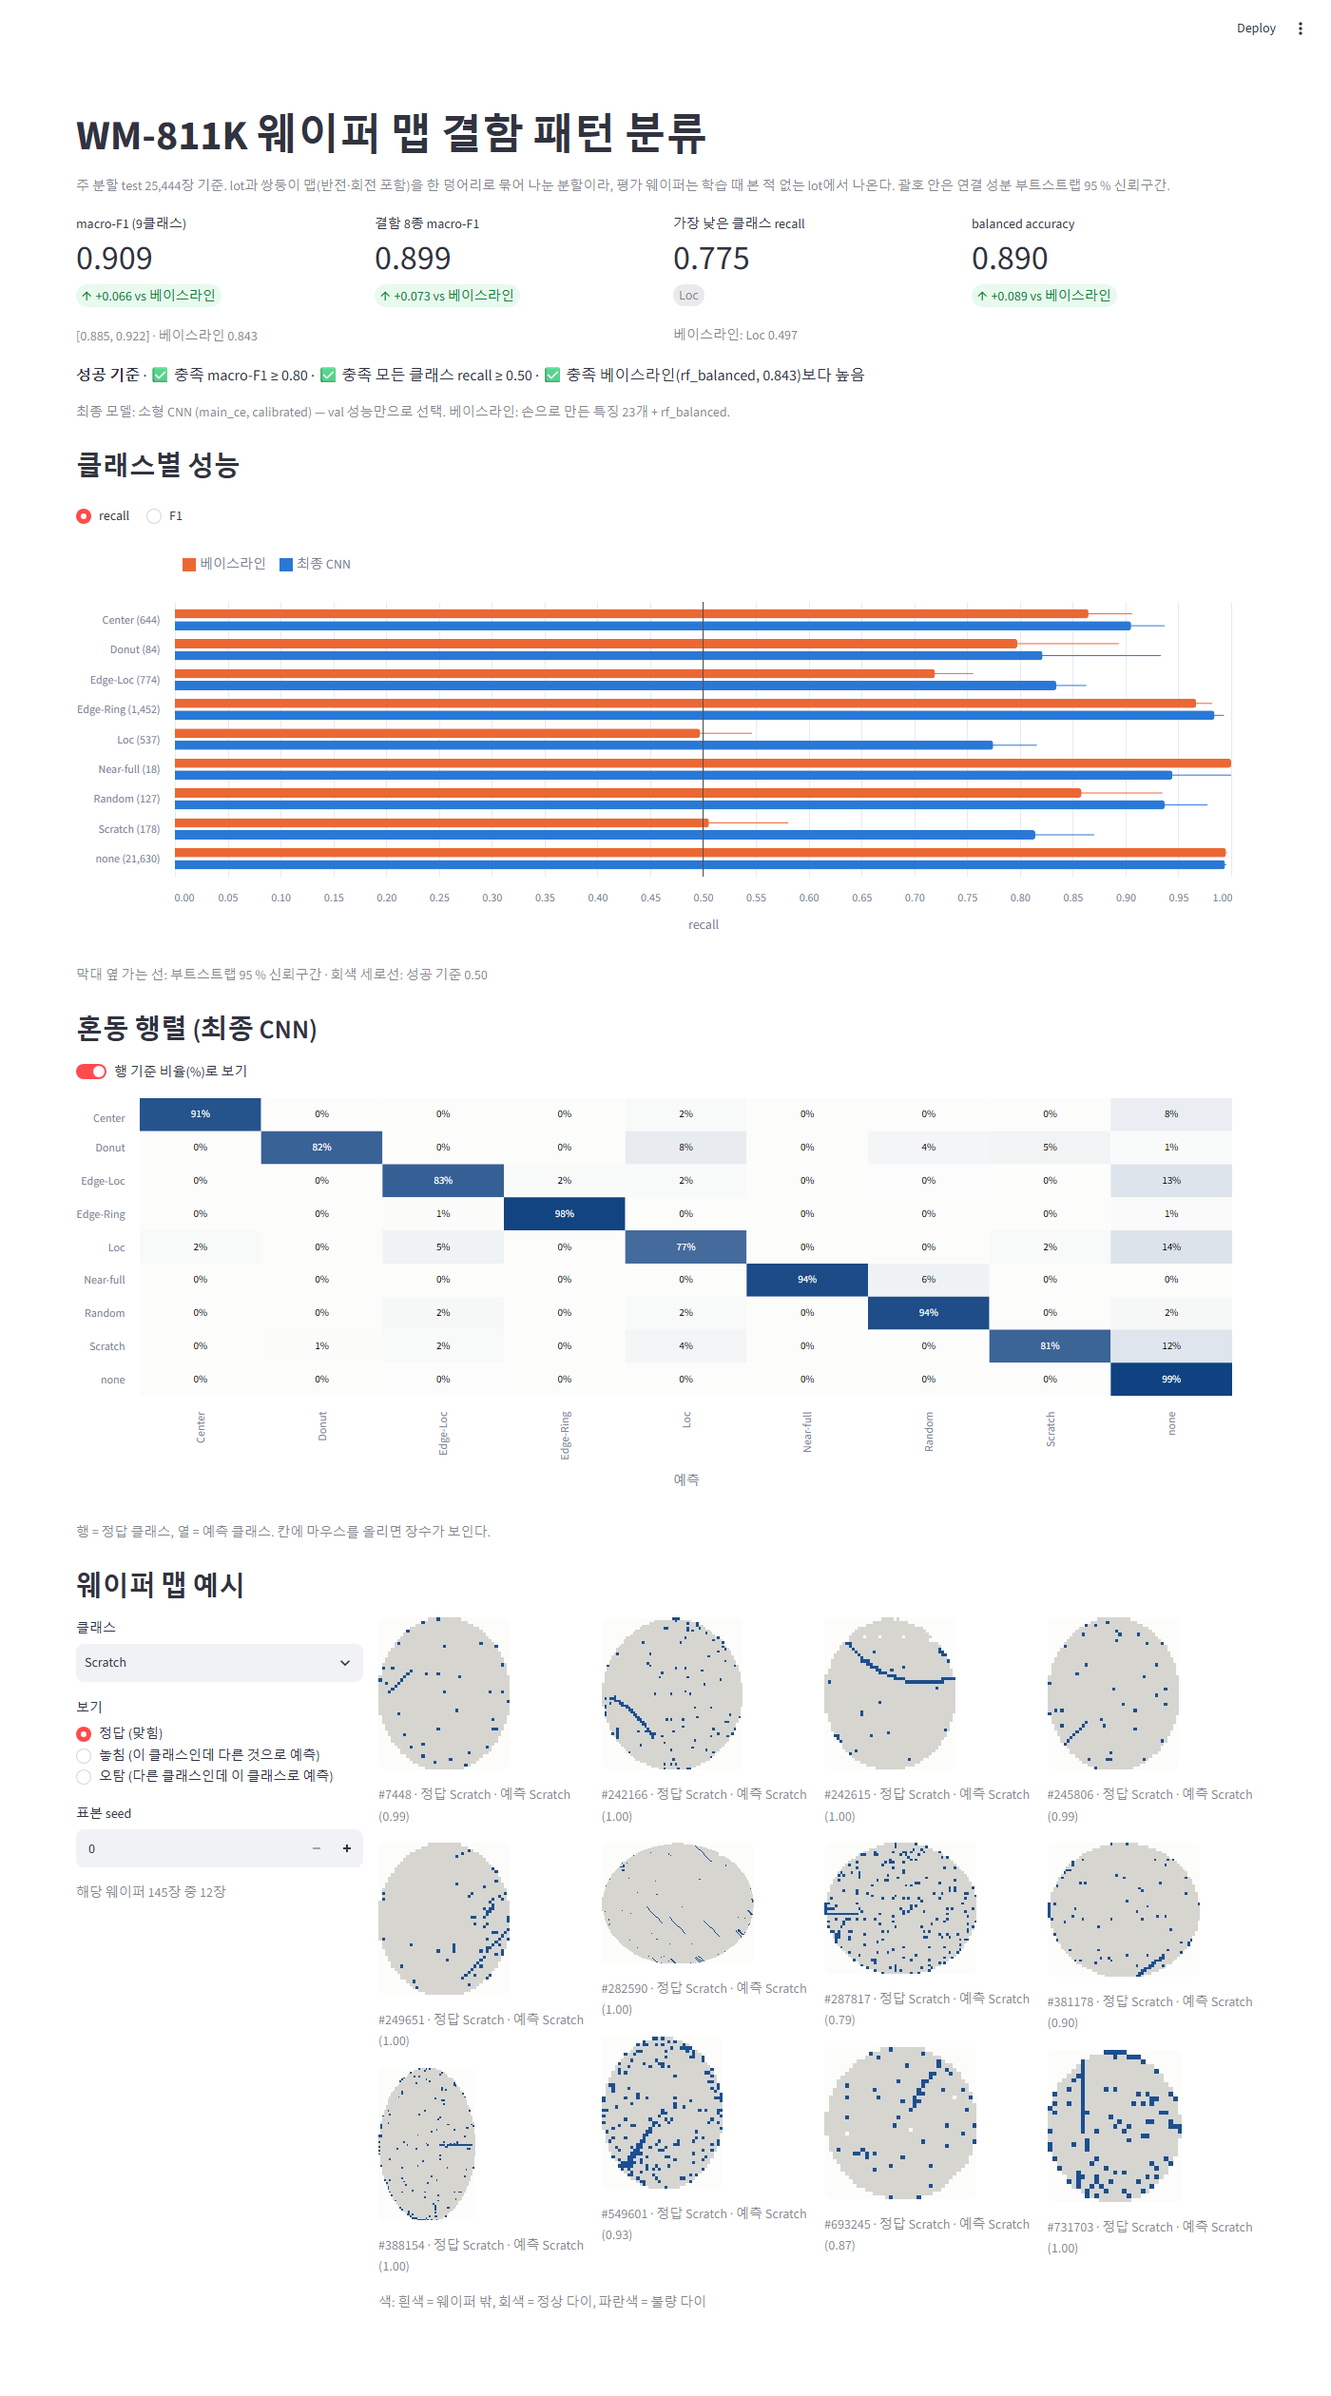
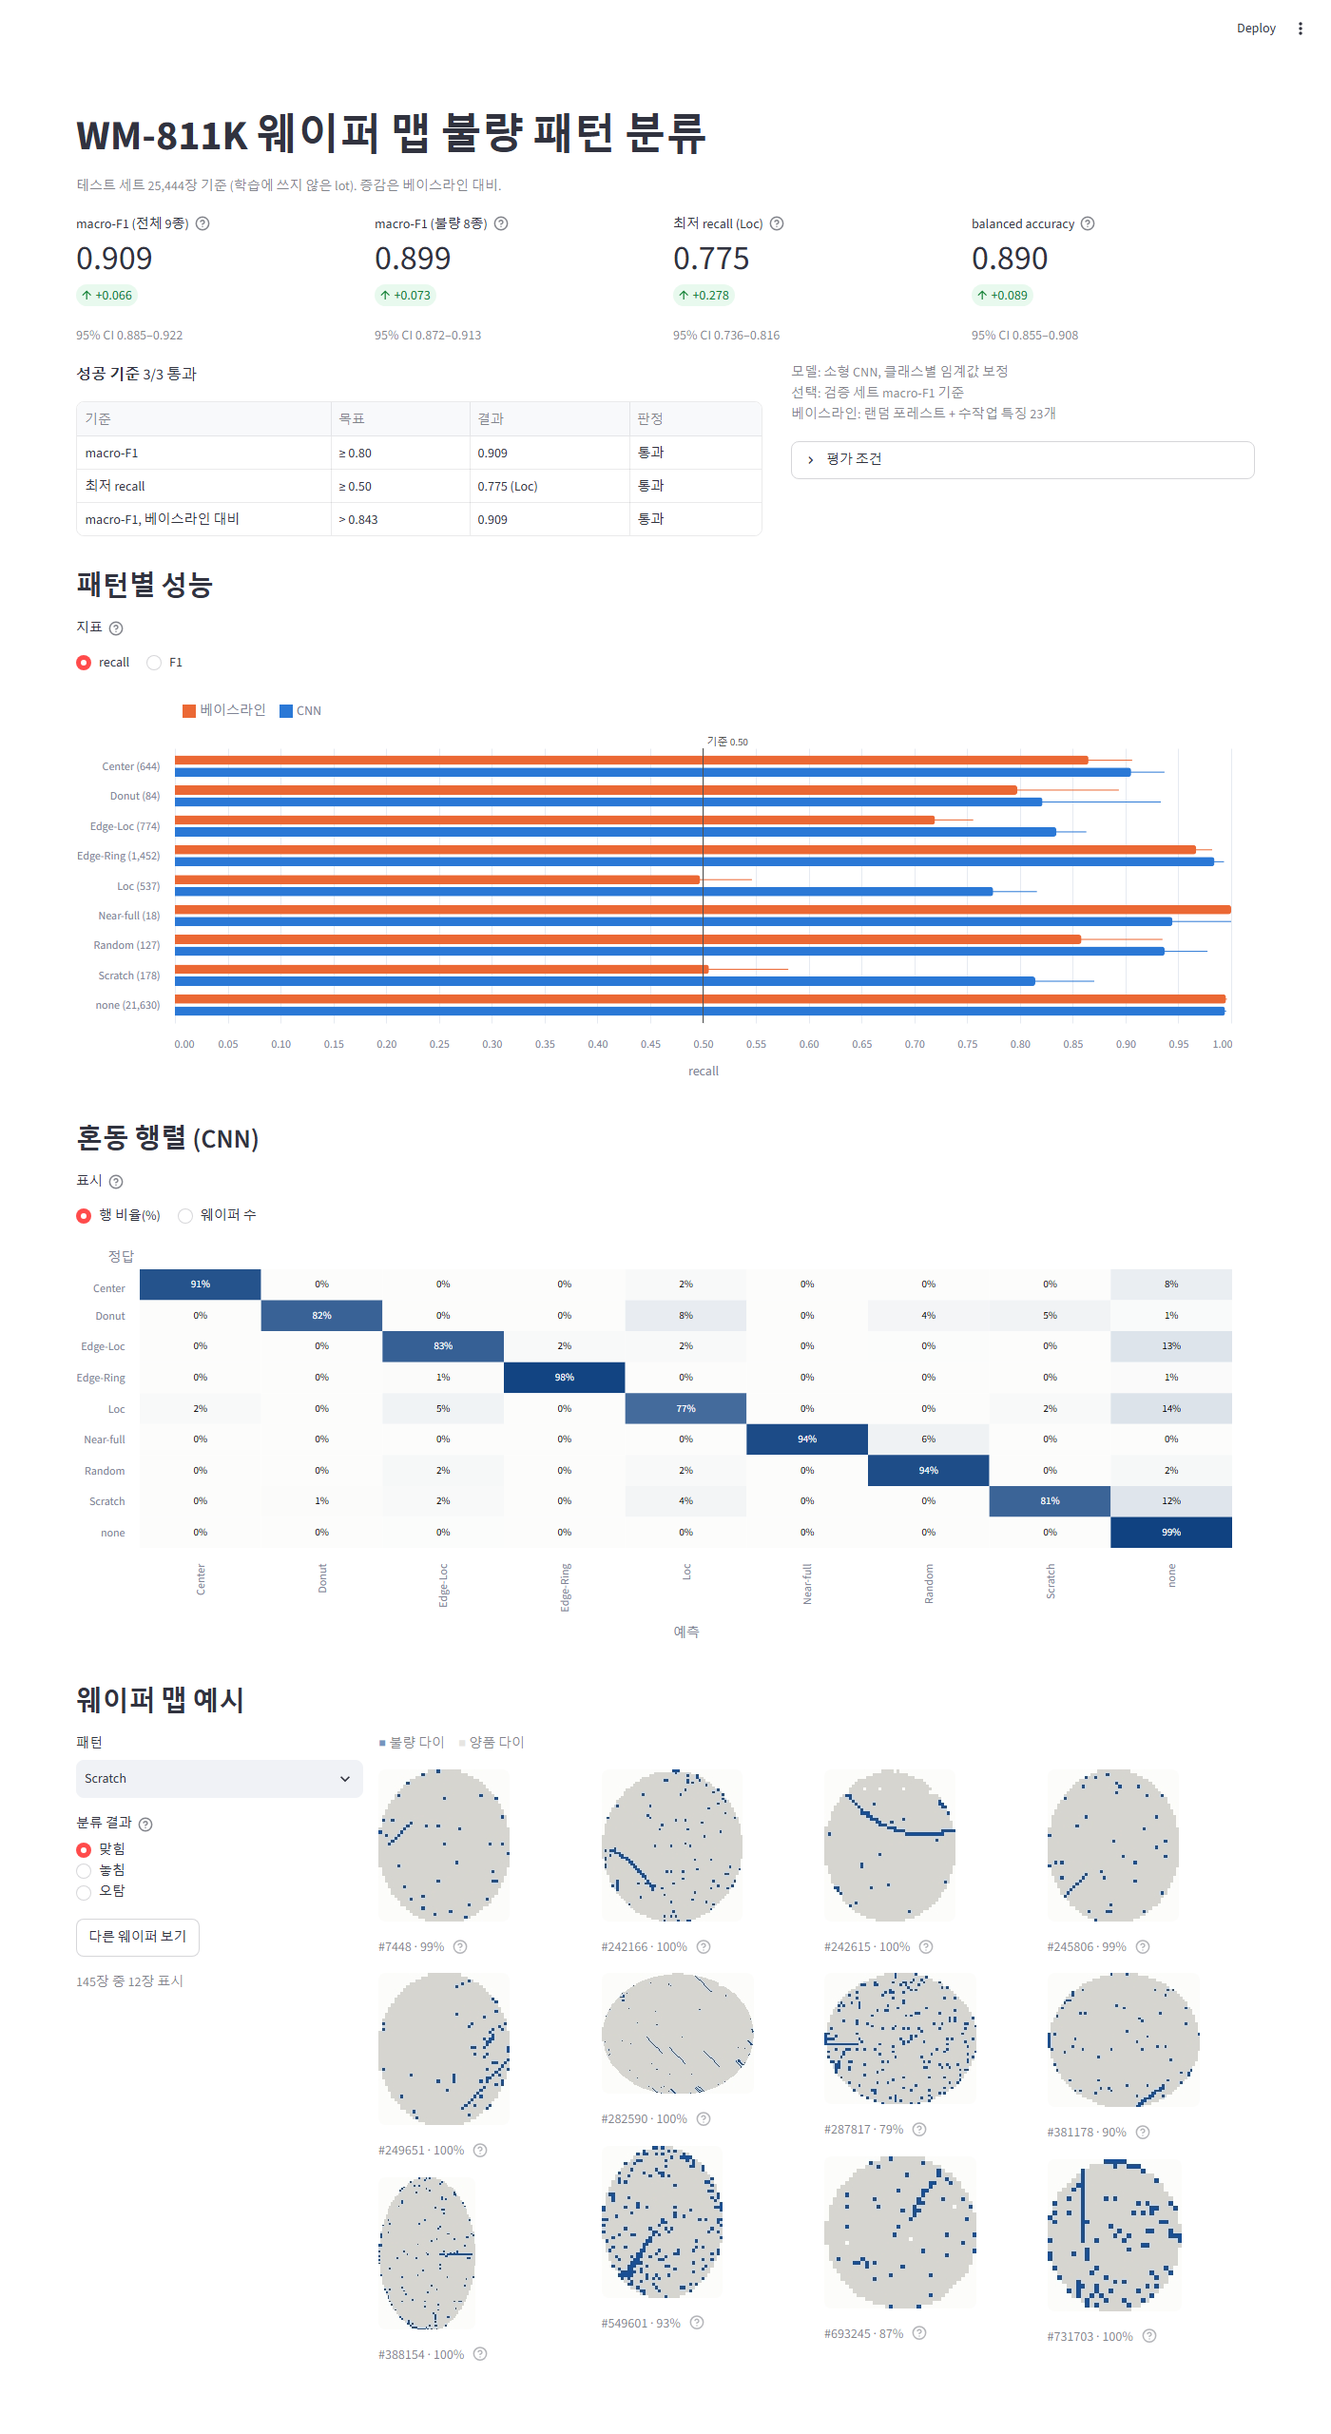
대시보드 문체 수정(A안 확정): 실제 수율 도구·ML 리포트·한국어 UX 라이팅 관례 적용
- 명사구 라벨, 증감 숫자만, 네 카드 모두 95% CI, 정의는 도움말(ⓘ)로
- 성공 기준을 기준/목표/결과/판정 표로(이모지 제거), 내부 실행 이름은 '평가 조건' 접기로
- 혼동 행렬 축 제목 정답/예측, 웨이퍼 예시는 맞힘/놓침/오탐 + '다른 웨이퍼 보기' 버튼
- LOG: 조사 출처·적용 내역, 판단 지점 13

diff --git a/scripts/dashboard.py b/scripts/dashboard.py
@@ -5,6 +5,8 @@ Usage (from project root, after the pipeline has produced its outputs):
 
 Reads outputs/baseline/results.json, outputs/cnn/results.json,
 outputs/cnn/test_predictions.parquet and data/processed/labeled_clean.pkl.
+Copy follows dashboard conventions collected from yield-analysis tools, ML
+evaluation reports and Korean UX-writing guides (see LOG.md, 21:18 entry).
 """
 import json
 from pathlib import Path
@@ -21,11 +23,13 @@ BASE_RESULTS = ROOT / "outputs" / "baseline" / "results.json"
 CNN_RESULTS = ROOT / "outputs" / "cnn" / "results.json"
 CNN_PREDS = ROOT / "outputs" / "cnn" / "test_predictions.parquet"
 PROCESSED = ROOT / "data" / "processed" / "labeled_clean.pkl"
-BASE_COLOR, CNN_COLOR = "#eb6834", "#2a78d6"
+BASE_COLOR, CNN_COLOR, INK2 = "#eb6834", "#2a78d6", "#52514e"
+GOOD_DIE, BAD_DIE = "#d6d5d0", "#184f95"
 WAFER_RGB = np.array([[252, 252, 251], [214, 213, 208], [24, 79, 149]], dtype=np.uint8)  # off / good / bad die
 N_SHOW = 12
+VIEWS = ["맞힘", "놓침", "오탐"]
 
-st.set_page_config(page_title="WM-811K 결함 패턴 분류", layout="wide")
+st.set_page_config(page_title="WM-811K 불량 패턴 분류", layout="wide")
 
 
 @st.cache_data
@@ -58,104 +62,136 @@ def wafer_image(m: np.ndarray, target: int = 160) -> np.ndarray:
     return WAFER_RGB[m[np.arange(oh) * h // oh][:, np.arange(ow) * w // ow]]
 
 
+def ci(values) -> str:
+    return f"95% CI {values[0]:.3f}–{values[1]:.3f}"
+
+
 base, cnn = load_results()
 final = cnn["final"]
 ft = final["test"]
 bar = cnn["baseline_bar"]
 bt = base["splits"]["split_main"][bar["model"]]["test"]
 success = cnn["success"]
+n_test = sum(ft["per_class"][c]["support"] for c in CLASSES)
+low_c = min(CLASSES, key=lambda c: ft["per_class"][c]["recall"])
+low_b = min(CLASSES, key=lambda c: bt["per_class"][c]["recall"])
+r_c, r_b = ft["per_class"][low_c]["recall"], bt["per_class"][low_b]["recall"]
 
-st.title("WM-811K 웨이퍼 맵 결함 패턴 분류")
-st.caption(
-    f"주 분할 test {sum(ft['per_class'][c]['support'] for c in CLASSES):,}장 기준. "
-    "lot과 쌍둥이 맵(반전·회전 포함)을 한 덩어리로 묶어 나눈 분할이라, 평가 웨이퍼는 학습 때 본 적 없는 lot에서 나온다. "
-    "괄호 안은 연결 성분 부트스트랩 95 % 신뢰구간."
-)
+st.title("WM-811K 웨이퍼 맵 불량 패턴 분류")
+st.caption(f"테스트 세트 {n_test:,}장 기준 (학습에 쓰지 않은 lot). 증감은 베이스라인 대비.")
 
 # ---- headline numbers
 c1, c2, c3, c4 = st.columns(4)
-c1.metric("macro-F1 (9클래스)", f"{ft['macro_f1']:.3f}", f"{ft['macro_f1'] - bt['macro_f1']:+.3f} vs 베이스라인")
-c1.caption(f"[{ft['macro_f1_ci95'][0]:.3f}, {ft['macro_f1_ci95'][1]:.3f}] · 베이스라인 {bt['macro_f1']:.3f}")
-c2.metric("결함 8종 macro-F1", f"{ft['defect8_macro_f1']:.3f}",
-          f"{ft['defect8_macro_f1'] - bt['defect8_macro_f1']:+.3f} vs 베이스라인")
-low_c = min(CLASSES, key=lambda c: ft["per_class"][c]["recall"])
-low_b = min(CLASSES, key=lambda c: bt["per_class"][c]["recall"])
-c3.metric("가장 낮은 클래스 recall", f"{ft['per_class'][low_c]['recall']:.3f}", f"{low_c}", delta_color="off", delta_arrow="off")
-c3.caption(f"베이스라인: {low_b} {bt['per_class'][low_b]['recall']:.3f}")
-c4.metric("balanced accuracy", f"{ft['balanced_acc']:.3f}", f"{ft['balanced_acc'] - bt['balanced_acc']:+.3f} vs 베이스라인")
+c1.metric("macro-F1 (전체 9종)", f"{ft['macro_f1']:.3f}", f"{ft['macro_f1'] - bt['macro_f1']:+.3f}",
+          help=f"패턴 9종 F1의 단순 평균. 베이스라인 {bt['macro_f1']:.3f}")
+c1.caption(ci(ft["macro_f1_ci95"]))
+c2.metric("macro-F1 (불량 8종)", f"{ft['defect8_macro_f1']:.3f}",
+          f"{ft['defect8_macro_f1'] - bt['defect8_macro_f1']:+.3f}",
+          help=f"none을 뺀 불량 패턴 8종의 F1 평균. 베이스라인 {bt['defect8_macro_f1']:.3f}")
+c2.caption(ci(ft["defect8_macro_f1_ci95"]))
+c3.metric(f"최저 recall ({low_c})", f"{r_c:.3f}", f"{r_c - r_b:+.3f}",
+          help=f"9종 중 가장 낮은 recall. 베이스라인 최저 {low_b} {r_b:.3f}")
+c3.caption(ci(ft["per_class"][low_c]["recall_ci95"]))
+c4.metric("balanced accuracy", f"{ft['balanced_acc']:.3f}", f"{ft['balanced_acc'] - bt['balanced_acc']:+.3f}",
+          help=f"패턴별 recall의 단순 평균. 베이스라인 {bt['balanced_acc']:.3f}")
+c4.caption(ci(ft["balanced_acc_ci95"]))
 
-checks = [("macro-F1 ≥ 0.80", success["macro_f1_ge_0.80"]),
-          ("모든 클래스 recall ≥ 0.50", success["all_recall_ge_0.50"]),
-          (f"베이스라인({bar['model']}, {bar['test_macro_f1']:.3f})보다 높음", success["beats_best_baseline"])]
-st.markdown("**성공 기준** · " + " · ".join(f"{'✅ 충족' if ok else '❌ 미충족'} {text}" for text, ok in checks))
-st.caption(f"최종 모델: 소형 CNN ({final['run']}, {final['variant']}) — val 성능만으로 선택. "
-           f"베이스라인: 손으로 만든 특징 23개 + {bar['model']}.")
+crit = pd.DataFrame(
+    [("macro-F1", "≥ 0.80", f"{ft['macro_f1']:.3f}", success["macro_f1_ge_0.80"]),
+     ("최저 recall", "≥ 0.50", f"{r_c:.3f} ({low_c})", success["all_recall_ge_0.50"]),
+     ("macro-F1, 베이스라인 대비", f"> {bar['test_macro_f1']:.3f}", f"{ft['macro_f1']:.3f}", success["beats_best_baseline"])],
+    columns=["기준", "목표", "결과", "판정"])
+crit["판정"] = crit["판정"].map({True: "통과", False: "미달"})
+top_l, top_r = st.columns([3, 2])
+top_l.markdown(f"**성공 기준** {(crit['판정'] == '통과').sum()}/{len(crit)} 통과")
+top_l.dataframe(crit, hide_index=True)
+top_r.caption("모델: 소형 CNN, 클래스별 임계값 보정  \n선택: 검증 세트 macro-F1 기준  \n베이스라인: 랜덤 포레스트 + 수작업 특징 23개")
+with top_r.expander("평가 조건"):
+    st.markdown(f"- 분할: lot과 중복 맵(회전·반전 포함)을 한 묶음으로 학습·검증·테스트 세트 분리\n"
+                f"- 테스트 세트: {n_test:,}장, 학습·검증에 쓰지 않은 lot\n"
+                f"- 95% CI: 묶음(연결 성분) 단위 부트스트랩 1,000회\n"
+                f"- 모델 선택: 검증 세트만 사용, 테스트 세트 미사용\n"
+                f"- 실행 이름: CNN {final['run']} ({final['variant']}), 베이스라인 {bar['model']}")
 
 # ---- per-class bars
-st.subheader("클래스별 성능")
-metric = st.radio("지표", ["recall", "F1"], horizontal=True, label_visibility="collapsed")
+st.subheader("패턴별 성능")
+metric = st.radio("지표", ["recall", "F1"], horizontal=True, help="가는 선: 95% CI (recall만)")
 key = "recall" if metric == "recall" else "f1"
 rows = []
-for model, res, color in (("베이스라인", bt, BASE_COLOR), ("최종 CNN", ft, CNN_COLOR)):
+for model, res in (("베이스라인", bt), ("CNN", ft)):
     for c in CLASSES:
         pc = res["per_class"][c]
-        rows.append({"클래스": f"{c} ({pc['support']:,})", "모델": model, "값": pc[key],
+        rows.append({"패턴": f"{c} ({pc['support']:,})", "모델": model, "값": pc[key],
                      "하한": pc["recall_ci95"][0] if key == "recall" else None,
                      "상한": pc["recall_ci95"][1] if key == "recall" else None})
 bars = pd.DataFrame(rows)
 order = [f"{c} ({ft['per_class'][c]['support']:,})" for c in CLASSES]
-color = alt.Color("모델:N", scale=alt.Scale(domain=["베이스라인", "최종 CNN"], range=[BASE_COLOR, CNN_COLOR]),
+color = alt.Color("모델:N", scale=alt.Scale(domain=["베이스라인", "CNN"], range=[BASE_COLOR, CNN_COLOR]),
                   legend=alt.Legend(orient="top", title=None))
-base_chart = alt.Chart(bars).encode(y=alt.Y("클래스:N", sort=order, title=None), yOffset="모델:N", color=color)
+base_chart = alt.Chart(bars).encode(y=alt.Y("패턴:N", sort=order, title=None), yOffset="모델:N", color=color)
 chart = base_chart.mark_bar(cornerRadiusEnd=3, size=10).encode(
     x=alt.X("값:Q", scale=alt.Scale(domain=[0, 1]), title=metric),
-    tooltip=["모델", "클래스", alt.Tooltip("값:Q", format=".3f"), alt.Tooltip("하한:Q", format=".3f"),
-             alt.Tooltip("상한:Q", format=".3f")])
+    tooltip=["모델", "패턴", alt.Tooltip("값:Q", title=metric, format=".3f"),
+             alt.Tooltip("하한:Q", title="95% CI 하한", format=".3f"),
+             alt.Tooltip("상한:Q", title="95% CI 상한", format=".3f")])
 if key == "recall":
-    chart += base_chart.mark_rule(color="#52514e").encode(x="하한:Q", x2="상한:Q")
-    chart += alt.Chart(pd.DataFrame({"x": [0.5]})).mark_rule(color="#52514e", strokeWidth=1).encode(x="x:Q")
+    chart += base_chart.mark_rule().encode(x="하한:Q", x2="상한:Q")
+    floor = pd.DataFrame({"x": [0.5], "t": ["기준 0.50"]})
+    chart += alt.Chart(floor).mark_rule(color=INK2, strokeWidth=1).encode(x="x:Q")
+    chart += alt.Chart(floor).mark_text(align="left", dx=4, dy=-6, color=INK2, fontSize=11).encode(
+        x="x:Q", y=alt.value(0), text="t:N")
 st.altair_chart(chart.properties(height=420), width="stretch")
-if key == "recall":
-    st.caption("막대 옆 가는 선: 부트스트랩 95 % 신뢰구간 · 회색 세로선: 성공 기준 0.50")
 
 # ---- confusion matrix
-st.subheader("혼동 행렬 (최종 CNN)")
-normalize = st.toggle("행 기준 비율(%)로 보기", value=True)
+st.subheader("혼동 행렬 (CNN)")
+mode = st.radio("표시", ["행 비율(%)", "웨이퍼 수"], horizontal=True,
+                help="행 비율: 정답 패턴마다 합이 100%. 대각선 값이 recall")
+normalize = mode == "행 비율(%)"
 cm = np.array(ft["confusion"])
 cells = pd.DataFrame([{"정답": CLASSES[i], "예측": CLASSES[j], "장수": int(cm[i, j]),
                        "비율": cm[i, j] / max(cm[i].sum(), 1)} for i in range(len(CLASSES)) for j in range(len(CLASSES))])
 value = "비율" if normalize else "장수"
-heat = alt.Chart(cells).encode(x=alt.X("예측:N", sort=CLASSES, title="예측"), y=alt.Y("정답:N", sort=CLASSES, title=None))
+heat = alt.Chart(cells).encode(x=alt.X("예측:N", sort=CLASSES, title="예측"),
+                               y=alt.Y("정답:N", sort=CLASSES, title="정답",
+                                       axis=alt.Axis(titleAngle=0, titleAlign="right", titleBaseline="bottom",
+                                                     titleX=-6, titleY=-6)))
 heat = heat.mark_rect().encode(
-    color=alt.Color(f"{value}:Q", scale=alt.Scale(range=["#fcfcfb", "#104281"], interpolate="rgb", type="linear" if normalize else "symlog"),
-                    legend=None),
-    tooltip=["정답", "예측", "장수", alt.Tooltip("비율:Q", format=".1%")]
+    color=alt.Color(f"{value}:Q", scale=alt.Scale(range=["#fcfcfb", "#104281"], interpolate="rgb",
+                                                  type="linear" if normalize else "symlog"), legend=None),
+    tooltip=["정답", "예측", alt.Tooltip("장수:Q", title="웨이퍼 수", format=","),
+             alt.Tooltip("비율:Q", title="행 비율", format=".1%")]
 ) + heat.mark_text(fontSize=11).encode(
     text=alt.Text(f"{value}:Q", format=".0%" if normalize else ","),
     color=alt.condition(alt.datum[value] > (0.55 if normalize else cm.max() / 3), alt.value("white"), alt.value("#0b0b0b")))
 st.altair_chart(heat.properties(height=430), width="stretch")
-st.caption("행 = 정답 클래스, 열 = 예측 클래스. 칸에 마우스를 올리면 장수가 보인다.")
 
 # ---- wafer examples
 st.subheader("웨이퍼 맵 예시")
 pred = load_predictions(final["run"], final["variant"])
 left, right = st.columns([1, 3])
-cls = left.selectbox("클래스", CLASSES, index=CLASSES.index("Scratch"))
-view = left.radio("보기", ["정답 (맞힘)", "놓침 (이 클래스인데 다른 것으로 예측)", "오탐 (다른 클래스인데 이 클래스로 예측)"])
-seed = left.number_input("표본 seed", min_value=0, value=0, step=1)
-if view.startswith("정답"):
+cls = left.selectbox("패턴", CLASSES, index=CLASSES.index("Scratch"))
+view = left.radio("분류 결과", VIEWS,
+                  help=f"놓침(FN): 정답 {cls}, 예측은 다른 패턴  \n오탐(FP): 예측 {cls}, 정답은 다른 패턴")
+if left.button("다른 웨이퍼 보기"):
+    st.session_state["seed"] = st.session_state.get("seed", 0) + 1
+seed = st.session_state.get("seed", 0)
+if view == "맞힘":
     pool = pred[(pred["true"] == cls) & (pred["predicted"] == cls)]
-elif view.startswith("놓침"):
+elif view == "놓침":
     pool = pred[(pred["true"] == cls) & (pred["predicted"] != cls)]
 else:
     pool = pred[(pred["true"] != cls) & (pred["predicted"] == cls)]
-left.caption(f"해당 웨이퍼 {len(pool):,}장 중 {min(N_SHOW, len(pool))}장")
+left.caption(f"{len(pool):,}장 중 {min(N_SHOW, len(pool))}장 표시" if len(pool)
+             else {"맞힘": "맞힌 웨이퍼 없음", "놓침": "놓친 웨이퍼 없음", "오탐": "오탐 없음"}[view])
+right.caption(f'<span style="color:{BAD_DIE}">■</span> 불량 다이&emsp;<span style="color:{GOOD_DIE}">■</span> 양품 다이',
+              unsafe_allow_html=True)
 if len(pool):
-    picked = pool.sample(min(N_SHOW, len(pool)), random_state=int(seed)).sort_index()
+    picked = pool.sample(min(N_SHOW, len(pool)), random_state=seed).sort_index()
     maps = load_maps(tuple(picked.index))
     cols = right.columns(4)
     for k, (wid, r) in enumerate(picked.iterrows()):
+        tag = {"맞힘": f"{r['confidence']:.0%}", "놓침": f"예측 {r['predicted']}", "오탐": f"정답 {r['true']}"}[view]
         with cols[k % 4]:
             st.image(wafer_image(maps[wid]))
-            st.caption(f"#{wid} · 정답 {r['true']} · 예측 {r['predicted']} ({r['confidence']:.2f})")
-    right.caption("색: 흰색 = 웨이퍼 밖, 회색 = 정상 다이, 파란색 = 불량 다이")
+            st.caption(f"#{wid} · {tag}",
+                       help=f"정답 {r['true']}, 예측 {r['predicted']}, 신뢰도 {r['confidence']:.0%}")

diff --git a/PLAN.md b/PLAN.md
@@ -85,6 +85,7 @@
 | 21:16 | 6단계 재현 범위 | 새 폴더 clone, CNN 1개(주 분할 CE)만 재학습 + 나머지 전부 재실행 |
 | 21:16 | 코드 라이선스 | MIT |
 | 21:17 | 재현 시작 시점 | 대시보드 수정과 병행해 백그라운드로 미리 시작 |
+| 21:40 | 대시보드 문체 | A안(엔지니어링 도구 톤)으로 확정 |
 
 ## 5. 변경 이력
 
